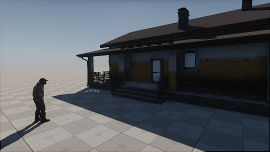
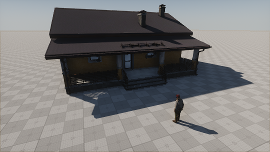
Тест worldtrigger, создана зона, запись в логи на рабочем столе и комментарии к функциям

diff --git a/DvigAtel/data/trigger_code/PorchTrigger.cs b/DvigAtel/data/trigger_code/PorchTrigger.cs
@@ -11,6 +11,9 @@ namespace UnigineApp.data.trigger_code
         private WorldTrigger trigger;
         private string logFilePath;
 
+        /// <summary>
+        /// Функция инициализации компонента. Вызывается при создании объекта.
+        /// </summary>
         void Init()
         {
             trigger = node as WorldTrigger;
@@ -19,18 +22,21 @@ namespace UnigineApp.data.trigger_code
 
             if (trigger != null)
             {
-                Log.Message("[PorchTrigger] WorldTrigger успешно инициализирован.\n");
                 trigger.EventEnter.Connect(OnPlayerEnter);
             }
             else
             {
-                Log.Error($"[PorchTrigger] Ошибка: Текущий узел '{node.Name}' не является WorldTrigger!\n");
+                Log.Error($"[PorchTrigger] Ошибка: Текущий узел '{node.Name}' не является WorldTrigger\n");
             }
         }
 
+        /// <summary>
+        /// Функция, вызываемая при входе объекта в триггер.
+        /// </summary>
+        /// <param name="enterNode">Объект, который пересекает триггер.</param>
         private void OnPlayerEnter(Node enterNode)
         {
-            // Выводим в консоль Unigine имя любого объекта, который пересек триггер
+            // Выводим название того, кто задел триггер
             Log.Message($"[PorchTrigger] Объект '{enterNode.Name}' вошел в триггер.\n");
 
             if (enterNode.Name.Contains("first_person"))
@@ -40,19 +46,17 @@ namespace UnigineApp.data.trigger_code
                 try
                 {
                     File.AppendAllText(logFilePath, logMessage + Environment.NewLine);
-                    Log.Message("[PorchTrigger] Файл успешно записан/создан!\n");
                 }
                 catch (Exception ex)
                 {
                     Log.Error($"[PorchTrigger] Не удалось записать файл: {ex.Message}\n");
                 }
             }
-            else
-            {
-                Log.Message($"[PorchTrigger] Объект '{enterNode.Name}' проигнорирован, так как его имя не содержит 'first_person'.\n");
-            }
         }
 
+        /// <summary>
+        /// Функция, вызываемая при выходе объекта из триггера.
+        /// </summary>
         void Shutdown()
         {
             if (trigger != null)
